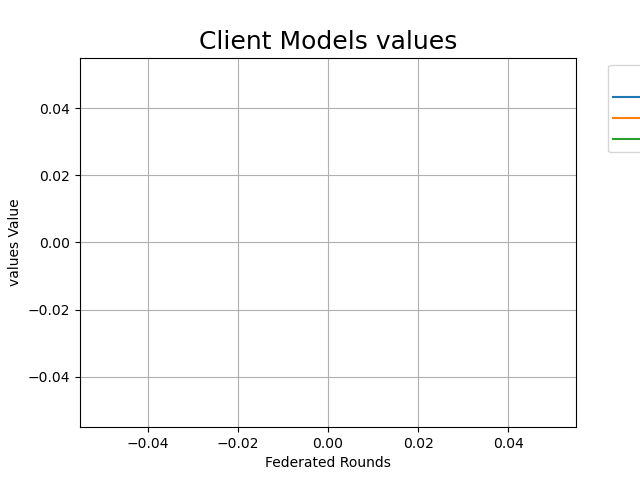
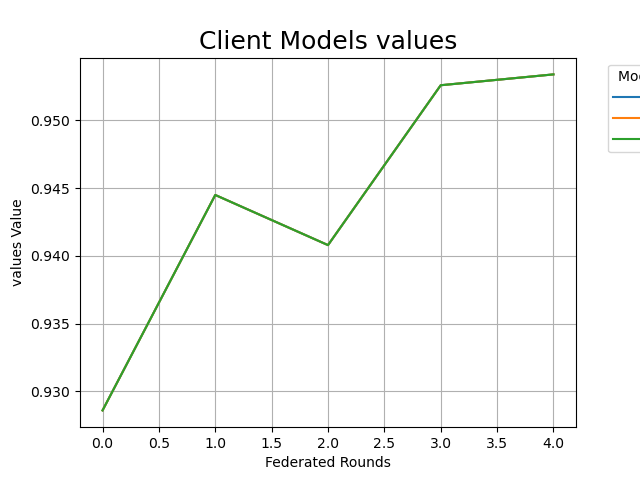
Training now works

diff --git a/main.py b/main.py
@@ -11,17 +11,17 @@ from torchvision.datasets import MNIST, FashionMNIST, CIFAR10
 from torch.utils.data import DataLoader
 import numpy as np
 
-mnist = False
-fashion_mnist = True
+mnist = True
+fashion_mnist = False
 cifar = False
 
 n = 3
-rounds = 1
-epochs = 3
+rounds = 3
 batch_size = 100
-client_values = [0.4, 0.5, 0.6]
+client_values = [0.5, 2, 6]
 criterion = nn.CrossEntropyLoss()
 device = "cuda" if torch.cuda.is_available else "cpu"
+print(device)
 
 
 class MnistNet(nn.Module):
@@ -81,18 +81,15 @@ if cifar:
     train_ds = CIFAR10(root=".", train=True, download=True, transform=transform)
     test_ds = CIFAR10(root=".", train=False, download=True, transform=transform)
 
-
-train_dl = DataLoader(train_ds, batch_size, shuffle=True, num_workers=4)
-test_dl = DataLoader(test_ds, batch_size, shuffle=False, num_workers=4)
+test_dl = DataLoader(test_ds, batch_size, shuffle=False, num_workers=4, pin_memory=True)
 
 if mnist or fashion_mnist:
     client_dls = utils.iid_clients(train_ds, n, 1000, 10000, batch_size)
-    print([len(i) for i in client_dls])
     models = [MnistNet() for i in range(n)]
-    opt = [Adam(models[i].parameters(), lr=0.001) for i in range(n)]
+    opt = [Adam(models[i].parameters(), lr=0.01) for i in range(n)]
     clients = [
         Client(
-            MnistNet(),
+            models[i],
             client_dls[i],
             test_dl,
             criterion,
@@ -102,7 +99,6 @@ if mnist or fashion_mnist:
         )
         for i in range(n)
     ]
-    server = Server(clients, np.exp, utils.exponential_cutoff)
 
 elif cifar:
     client_dls = utils.iid_clients(train_ds, n, 1000, 10000, batch_size)
@@ -110,7 +106,7 @@ elif cifar:
     opt = [Adam(models[i].parameters(), lr=0.001) for i in range(n)]
     clients = [
         Client(
-            CifarNet(),
+            models[i],
             client_dls[i],
             test_dl,
             criterion,
@@ -120,16 +116,13 @@ elif cifar:
         )
         for i in range(n)
     ]
-    server = Server(clients, np.exp, utils.exponential_cutoff)
+server = Server(clients, np.exp, utils.exponential_cutoff)
 
-for i in range(5):
-    for client in clients:
-        client.train(verbose=True)
-        client.test(client.model)
-        # client.bid()
-# for i in range(rounds):
-#     print(f"Round {i}")
-#     server.run_demand_auction()
+for client in server.clients:
+    client.bid()
+for i in range(rounds):
+    print(f"Round {i}")
+    server.run_demand_auction()
 
 server.plot("values", "values.png")
 server.plot("utilities", "utilities.png")

diff --git a/client.py b/client.py
@@ -117,5 +117,5 @@ class Client:
             batch_acc.append(accuracy_score(labels.cpu(), pred.cpu()))
             train_loss = sum(batch_loss) / len(batch_loss)
             train_acc = round(sum(batch_acc) / len(batch_acc), 4)
-            print(train_acc)
+        self.architecture.cpu()
         self.model = self.architecture.state_dict()
